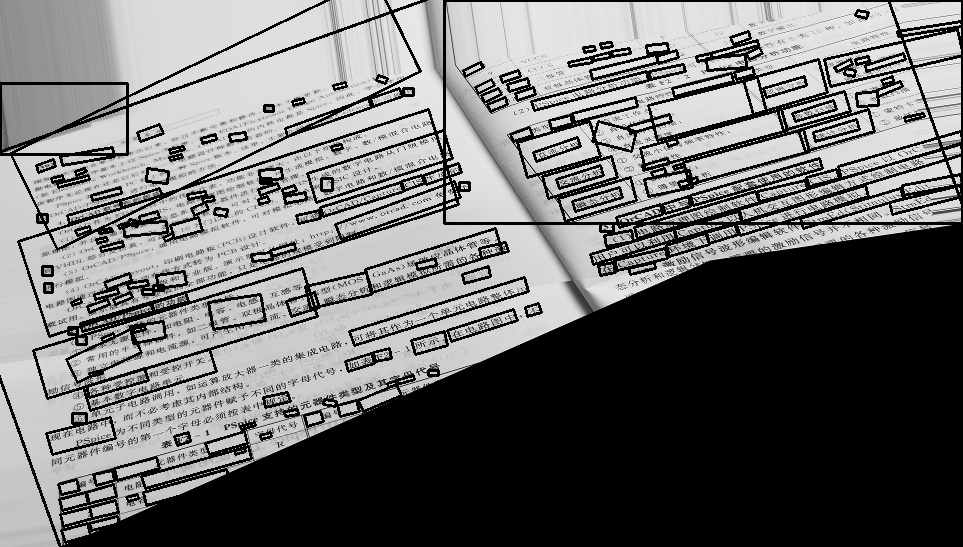
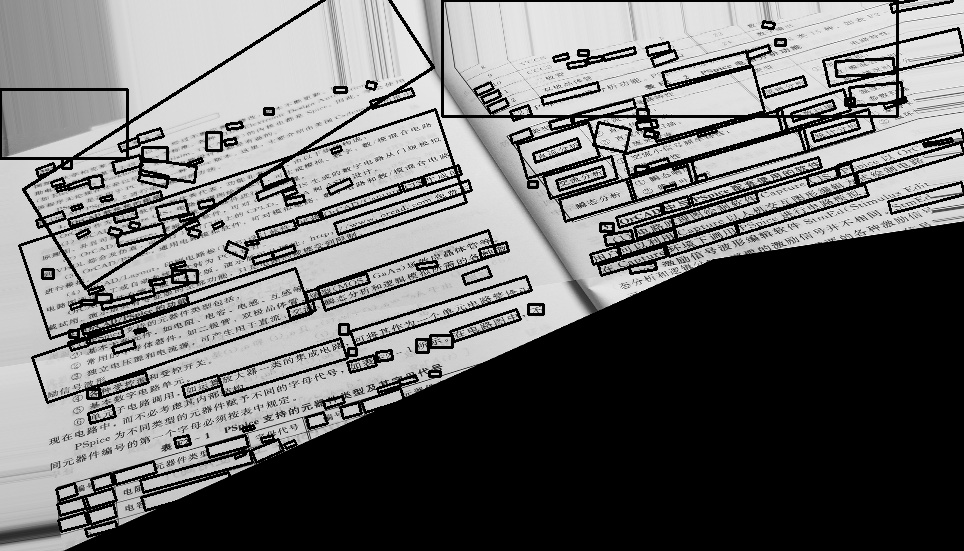
some features have been added

Changed region(s): [[0.0, 0.0, 1.0, 1.0], [0.5607, 0.5905, 0.5919, 0.6216]]

diff --git a/perspective_transformation.py b/perspective_transformation.py
@@ -1,0 +1,154 @@
+# ——*——coding:utf-8——*——
+# author: hhhfccz(胡珈魁) time:2020/12/1
+import numpy as np
+import cv2
+
+
+def getkpoint(imag, input1):
+    mask1 = np.zeros_like(input1)
+    x = 0
+    y = 0
+    w1, h1 = input1.shape
+    input1 = input1[0:w1, 200:h1]
+
+    try:
+        w, h = imag.shape
+    except:
+        return None
+
+    mask1[y:y + h, x:x + w] = 255  # 整张图片像素
+    keypoint = []
+    kp = cv2.goodFeaturesToTrack(input1, 200, 0.04, 7)
+    if kp is not None and len(kp) > 0:
+        for x, y in np.float32(kp).reshape(-1, 2):
+            keypoint.append((x, y))
+    return keypoint
+
+
+def process(image):
+    grey1 = cv2.cvtColor(image, cv2.COLOR_BGR2GRAY)
+    grey = cv2.equalizeHist(grey1)
+    keypoint = getkpoint(grey, grey1)
+
+    if keypoint is not None and len(keypoint) > 0:
+        for x, y in keypoint:
+            cv2.circle(image, (int(x + 200), y), 3, (255, 255, 0))
+    return image
+
+
+import cv2
+import numpy as np
+
+
+def get_contour(img):
+    """获取连通域
+    :param img: 输入图片
+    :return: 最大连通域
+    """
+    ret, img_bin = cv2.threshold(img, 100, 255, cv2.THRESH_BINARY)
+
+    contours, hierarchy = cv2.findContours(img_bin, cv2.RETR_LIST, cv2.CHAIN_APPROX_SIMPLE)
+
+    areas = []
+    for i in range(len(contours)):
+        area = cv2.contourArea(contours[i])
+        print("轮廓 %d 的面积是:%d" % (i, area))
+
+        areas.append(area)
+    index = np.argmax(areas)
+
+    return img_bin, contours[index]
+
+
+def get_cornerHarris(img_src):
+    """
+        获取图像角点
+    :param img_src: 处理图像
+    :return: 角点图像
+    """
+    img_corner = np.zeros(img_src.shape, np.uint8)
+    img_gray = img_src.copy()
+    img_gray = np.float32(img_gray)
+
+    img_dist = cv2.cornerHarris(img_gray, 5, 5, 0.04)
+    img_dist = cv2.dilate(img_dist, None)
+
+    img_corner[img_dist > 0.01 * img_dist.max()] = [255]
+
+    return img_corner
+
+
+def get_warpPerspective(points, image_src):
+    """
+    执行透视变换
+    :param points: 输入的四个角点
+    :param image_src: 输入的图片
+    :return: 变换后的图片
+    """
+    src_point = np.float32([
+        [points[2][0], points[2][1]],
+        [points[3][0], points[3][1]],
+        [points[1][0], points[1][1]],
+        [points[0][0], points[0][1]]])
+    width = 1920
+    height = 1080
+    dst_point = np.float32([[0, 0], [width - 1, 0],
+                            [0, height - 1], [width - 1, height - 1]])
+
+    perspective_matrix = cv2.getPerspectiveTransform(src_point, dst_point)
+
+    img_dst = cv2.warpPerspective(image_src, perspective_matrix, (width, height))
+    return img_dst
+
+
+def main():
+    # 读取图片
+    img_white = cv2.imread("E:\\cv\\Document-reconstruction\\pic_left\\2.jpg", cv2.IMREAD_GRAYSCALE)
+    img_book = cv2.imread("E:\\cv\\Document-reconstruction\\pic_right\\2.jpg", cv2.IMREAD_GRAYSCALE)
+
+    cv2.imshow("img", img_book)
+    cv2.waitKey(0)
+    cv2.destroyAllWindows()
+
+    # 最大的轮廓
+    img_bin, contour = get_contour(img_white)
+
+    # 处理区域mask
+    mask = np.zeros(img_white.shape, np.uint8)
+    mask = cv2.drawContours(mask, [contour], 0, (255, 255, 255), -1)
+    # resize_show_image("img_mask", mask)
+
+    # 获取区域角点图片
+    img_corner = get_cornerHarris(img_white)
+
+    # 膨胀和 mask与角点操作
+    kernel = np.ones((5, 5), np.uint8)
+    img_mask = cv2.dilate(mask, kernel)
+    img_corner = cv2.bitwise_and(img_mask, img_corner)
+    # cv2.imshow("cornor“, img_corner)
+    # cv2.waitKey(0)
+    # cv2.destroyAllWindows()
+
+    # 获取四个角点的中心坐标
+    contours, hierarchy = cv2.findContours(img_corner, cv2.RETR_LIST, cv2.CHAIN_APPROX_SIMPLE)
+
+    points = []
+    for i in range(len(contours)):
+        center, radius = cv2.minEnclosingCircle(contours[i])
+        points.append(center)
+    print(points)
+
+    # 透视变换
+    img_dst = get_warpPerspective(points, img_book)
+    cv2.imshow("image_dst", img_dst)
+    cv2.waitKey(0)
+    cv2.destroyAllWindows()
+
+
+if __name__ == '__main__':
+    # img = cv2.imread("E:\\cv\\Document-reconstruction\\rotated_result\\result2.jpg")
+    # img = process(img)
+    # cv2.imshow("img", img)
+    # cv2.waitKey(0)
+    # cv2.destroyAllWindows()
+    main()

diff --git a/main.py b/main.py
@@ -36,13 +36,13 @@ def main():
     cv2.imwrite("./find_text_result/result" + str(number) + ".jpg", text_area)
     cv2.imshow("find text result", remove_the_bg(text_area))
     cv2.waitKey(0)
-    cv2.destroyAllWindows()
 
-    # 开始进行OCR
-    print("----ocr---")
-    ocr(number)
+    # # 开始进行OCR
+    # print("----ocr---")
+    # ocr(number)
     print("----Done----")
 
 
 if __name__ == "__main__":
     main()
+    cv2.destroyAllWindows()

diff --git a/get_roi.py b/get_roi.py
@@ -13,4 +13,4 @@ def get_roi(img_number, img, region):
             cv2.imwrite("./get_text_roi/img" + str(img_number) + "/" + str(i) + ".jpg",
                         img[width[1]:height[1], width[0]:height[0]])
         except cv2.error:
-            print(i)
+            print("something wrong: "+str(i))
